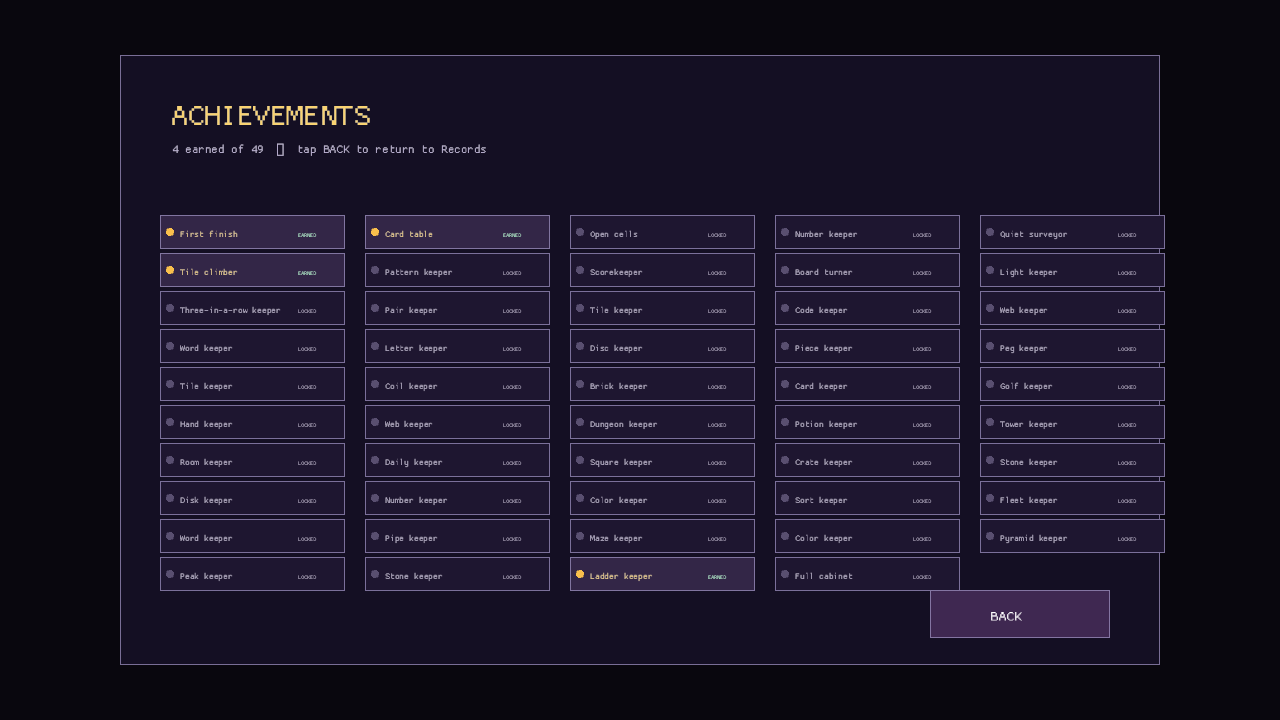
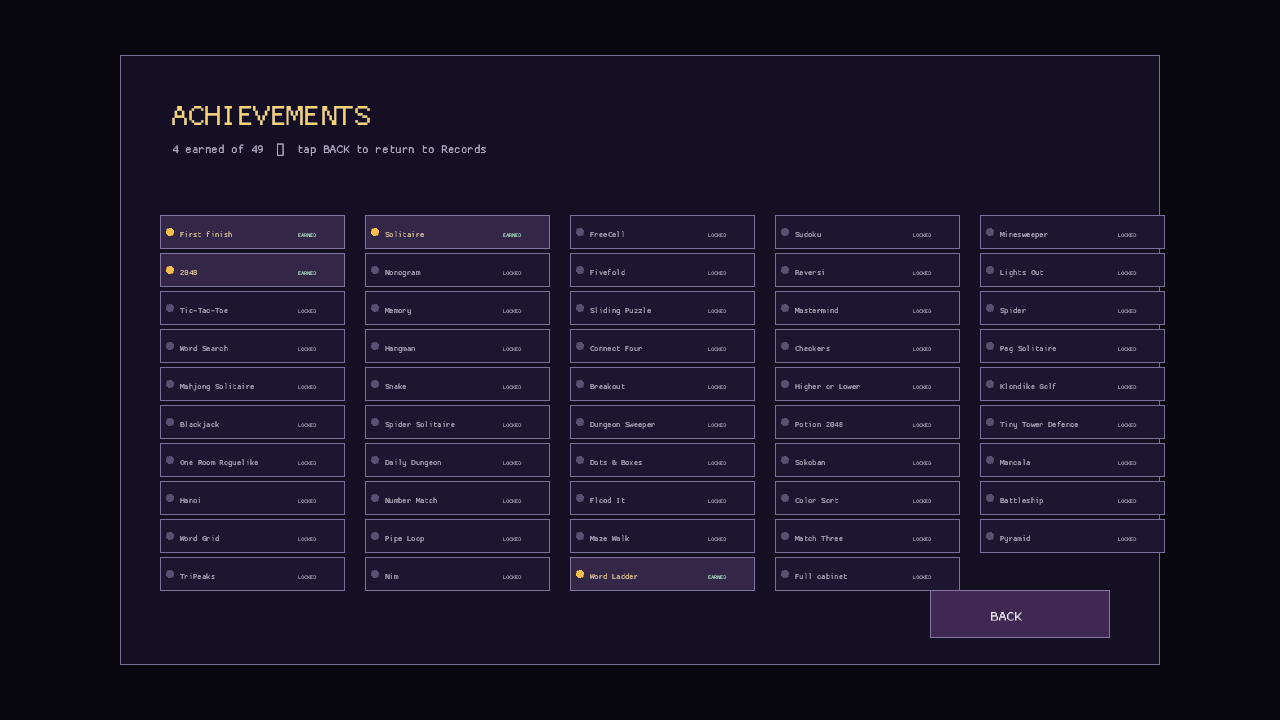
The keeper marks name their quiet drawers clearly (achievement shelf clarity)
The achievement shelf was readable but its thematic labels obscured which drawer each award belonged to, and high-contrast mode did not change its dense card palette. Use drawer names with fitted labels, apply shared large-text and high-contrast presentation, and preserve responsive accessible captures for the shelf.

diff --git a/src/achievements_ui.rs b/src/achievements_ui.rs
@@ -62,13 +62,13 @@ pub fn clicks(point: Vec2) -> Vec<UiAction> {
 
 pub fn draw(state: &AppState) {
     let l = layout();
-    panel(l.panel, Color::new(0.08, 0.06, 0.14, 1.));
+    panel(l.panel, Color::new(0.08, 0.06, 0.14, 1.), state.high_contrast);
     let portrait = crate::ui::is_portrait();
     let compact = crate::ui::is_compact_landscape();
     let title_y = if compact { l.panel.y + 35. } else if portrait { l.panel.y + 42. } else { l.panel.y + 70. };
     let subtitle_y = if compact { l.panel.y + 52. } else if portrait { l.panel.y + 66. } else { l.panel.y + 98. };
     let title_size = if portrait { 28. } else { 38. };
-    draw_text("ACHIEVEMENTS", l.panel.x + 50., title_y, title_size, Color::new(0.98, 0.83, 0.45, 1.));
+    draw_text("ACHIEVEMENTS", l.panel.x + 50., title_y, crate::accessibility::text_size(title_size, state.large_text), Color::new(0.98, 0.83, 0.45, 1.));
     let earned = AchievementId::ALL
         .iter()
         .filter(|achievement| state.achievements.get(achievement.index()).copied().unwrap_or(false))
@@ -77,21 +77,45 @@ pub fn draw(state: &AppState) {
         format!("{} earned of {}  •  tap BACK to return to Records", earned, AchievementId::ALL.len()),
         l.panel.x + 52.,
         subtitle_y,
-        if portrait { 10. } else { 15. },
+        crate::accessibility::text_size(if portrait { 10. } else { 15. }, state.large_text),
         Color::new(0.72, 0.68, 0.82, 1.),
     );
     for (slot, achievement) in AchievementId::ALL.iter().enumerate() {
         let rect = card_rect(l, slot);
         let earned = state.achievements.get(achievement.index()).copied().unwrap_or(false);
-        panel(rect, if earned { Color::new(0.20, 0.15, 0.28, 1.) } else { Color::new(0.12, 0.09, 0.19, 1.) });
-        draw_circle(rect.x + 10., rect.y + rect.h * 0.5, if portrait { 3. } else { 4. }, if earned { Color::new(0.98, 0.75, 0.30, 1.) } else { Color::new(0.35, 0.31, 0.44, 1.) });
-        let size = if portrait { 7. } else if compact { 9. } else { 11. };
-        draw_text(achievement.title(), rect.x + 20., rect.y + rect.h * 0.64, size, if earned { Color::new(0.98, 0.82, 0.42, 1.) } else { Color::new(0.68, 0.64, 0.76, 1.) });
+        let fill = if state.high_contrast {
+            if earned { Color::new(0.28, 0.28, 0.30, 1.) } else { Color::new(0.02, 0.02, 0.03, 1.) }
+        } else if earned {
+            Color::new(0.20, 0.15, 0.28, 1.)
+        } else {
+            Color::new(0.12, 0.09, 0.19, 1.)
+        };
+        panel(rect, fill, state.high_contrast);
+        draw_circle(rect.x + 10., rect.y + rect.h * 0.5, if portrait { 3. } else { 4. }, if state.high_contrast { WHITE } else if earned { Color::new(0.98, 0.75, 0.30, 1.) } else { Color::new(0.35, 0.31, 0.44, 1.) });
+        let size = crate::accessibility::text_size(if portrait { 7. } else if compact { 9. } else { 10. }, state.large_text);
+        draw_text(fitted_label(*achievement, portrait), rect.x + 20., rect.y + rect.h * 0.64, size, if state.high_contrast { WHITE } else if earned { Color::new(0.98, 0.82, 0.42, 1.) } else { Color::new(0.68, 0.64, 0.76, 1.) });
         let status = if earned { "EARNED" } else { "LOCKED" };
-        draw_text(status, rect.right() - if portrait { 39. } else { 47. }, rect.y + rect.h * 0.64, if portrait { 5. } else { 7. }, if earned { Color::new(0.55, 1., 0.72, 1.) } else { Color::new(0.55, 0.50, 0.64, 1.) });
+        draw_text(status, rect.right() - if portrait { 39. } else { 47. }, rect.y + rect.h * 0.64, crate::accessibility::text_size(if portrait { 5. } else { 7. }, state.large_text), if state.high_contrast { WHITE } else if earned { Color::new(0.55, 1., 0.72, 1.) } else { Color::new(0.55, 0.50, 0.64, 1.) });
     }
-    panel(l.back, Color::new(0.25, 0.16, 0.32, 1.));
+    panel(l.back, Color::new(0.25, 0.16, 0.32, 1.), state.high_contrast);
     draw_text("BACK", l.back.x + if portrait { 52. } else { 60. }, l.back.y + l.back.h * 0.64, if portrait { 12. } else { 18. }, WHITE);
+}
+
+fn achievement_label(achievement: AchievementId) -> String {
+    match achievement {
+        AchievementId::Game(game) => game.title().to_owned(),
+        _ => achievement.title().to_owned(),
+    }
+}
+
+fn fitted_label(achievement: AchievementId, portrait: bool) -> String {
+    let label = achievement_label(achievement);
+    let limit = if portrait { 10 } else { 18 };
+    if label.chars().count() <= limit {
+        label
+    } else {
+        format!("{}..", label.chars().take(limit.saturating_sub(2)).collect::<String>())
+    }
 }
 
 fn card_rect(layout: Layout, slot: usize) -> Rect {
@@ -103,7 +127,7 @@ fn card_rect(layout: Layout, slot: usize) -> Rect {
     )
 }
 
-fn panel(rect: Rect, fill: Color) {
+fn panel(rect: Rect, fill: Color, high_contrast: bool) {
     draw_rectangle(rect.x, rect.y, rect.w, rect.h, fill);
-    draw_rectangle_lines(rect.x, rect.y, rect.w, rect.h, 2., Color::new(0.45, 0.38, 0.65, 0.65));
+    draw_rectangle_lines(rect.x, rect.y, rect.w, rect.h, 2., crate::accessibility::grid_line(high_contrast));
 }

diff --git a/src/game_capture.rs b/src/game_capture.rs
@@ -178,7 +178,7 @@ impl Game {
             | "match_three_hint_accessible" => Screen::Game(GameId::MatchThree),
             "mastermind_accessible" => Screen::Game(GameId::Mastermind),
             "help" => Screen::Help,
-            "records" | "records_word_ladder" | "records_progress" | "achievements" | "favorites_browse" | "favorites_all" | "recent_browse" => Screen::Records,
+            "records" | "records_word_ladder" | "records_progress" | "achievements" | "achievements_accessible" | "favorites_browse" | "favorites_all" | "recent_browse" => Screen::Records,
             "rules" => Screen::Rules,
             "credits" => Screen::Credits,
             "settings" | "settings_reset" => Screen::Settings,
@@ -244,7 +244,7 @@ impl Game {
                 &self.state.records,
             );
         }
-        if scene == "achievements" {
+        if scene == "achievements" || scene == "achievements_accessible" {
             self.state.records.best_2048 = 2048;
             self.state.records.solitaire_best_moves = Some(42);
             self.state.records.word_ladder_best_moves = Some(5);

diff --git a/README.md b/README.md
@@ -51,7 +51,8 @@ Pyramid, TriPeaks, Nim, and Word Ladder.
 - **Collection feedback.** Records shows stamps, achievements, and the number
   of completed drawers out of the full cabinet so progress stays legible. Each
   drawer has its own completion achievement alongside the collection awards,
-  and a visible ACHIEVEMENTS shelf shows which awards are earned or locked.
+  and a visible ACHIEVEMENTS shelf names the associated drawer and shows which
+  awards are earned or locked.
 - **Clear classic rules.** Familiar games remain recognisable. Any themed
   presentation is cosmetic and never hides state needed to play.
 - **Deterministic where useful.** Seeded deals and puzzles can be replayed and

diff --git a/docs/GAME_DESIGN.md b/docs/GAME_DESIGN.md
@@ -47,7 +47,8 @@ stamps, achievements, and completed drawers out of the full 47-game cabinet.
 Every drawer has its own completion achievement, in addition to first-finish
 and full-cabinet collection awards. The Records screen opens a responsive
 ACHIEVEMENTS shelf so earned and locked awards remain inspectable without
-interrupting a game.
+interrupting a game. Drawer awards use the drawer's own title so thematic
+achievement names never obscure what was completed.
 
 Starting a new drawer session presents a clear CANCEL/START confirmation so an
 accidental tap cannot replace an unfinished session.

diff --git a/TODO.md b/TODO.md
@@ -1261,6 +1261,11 @@ sizes, covered by rule tests, and passes `publish.ps1`.
   - [x] Cover a seeded mixed-progress achievement state and a visible BACK
     route to Records at all documented sizes.
 
+## Phase 125 — Achievement label clarity
+
+- [x] Use each drawer's title on its achievement card and add an accessible
+  achievement capture path with large-text and high-contrast state coverage.
+
 ## Post-launch candidates (not scheduled)
 
 - Puzzles/tabletop: no remaining scheduled candidates.

diff --git a/docs/TECHNICAL_DESIGN.md b/docs/TECHNICAL_DESIGN.md
@@ -175,6 +175,9 @@ Achievement flags are stored as a normalized vector keyed by the 49-entry
 are padded with unearned late-game achievements.
 The runtime-only `achievements_view` flag routes Records to the responsive
 achievement shelf; its cards are read-only and BACK returns to Records.
+Drawer achievement cards render the associated `GameId` title rather than only
+thematic award text, and the shelf participates in the shared large-text
+capture path.
 
 Conceptual keys:
 
